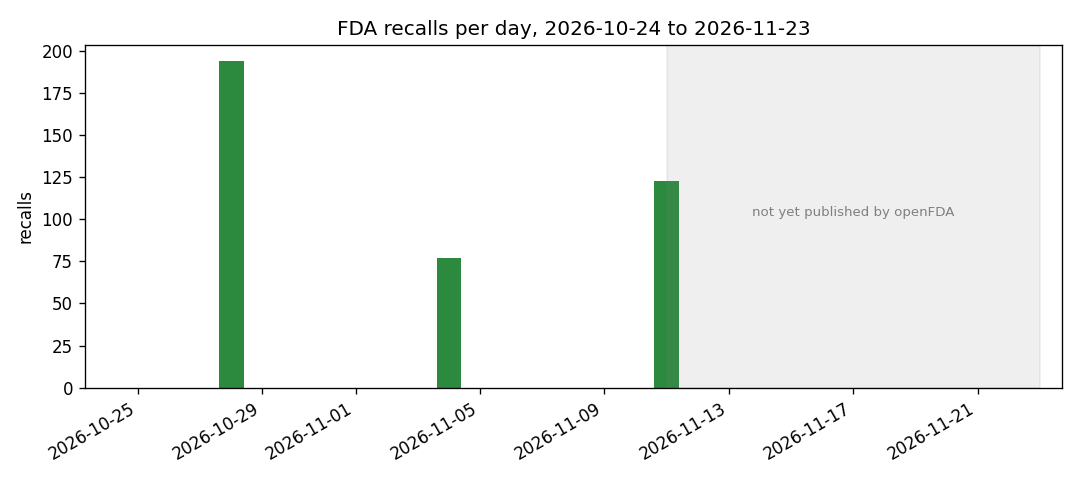
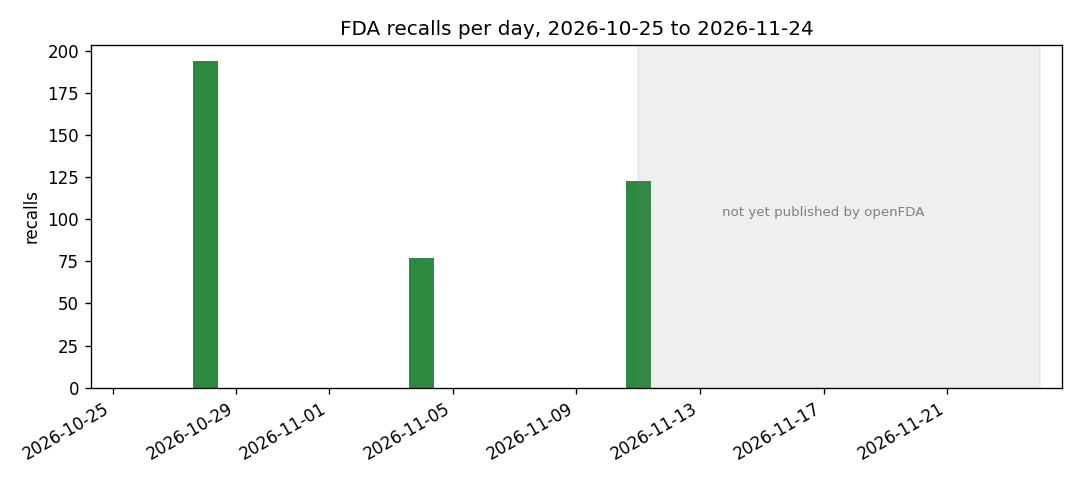
Add reporting lag distribution buckets; refresh data

diff --git a/src/recallradar/report.py b/src/recallradar/report.py
@@ -50,7 +50,8 @@ def render_markdown(summary: dict, spotlight: list[dict],
                     concentration: dict | None = None,
                     oldest_open: list[dict] | None = None,
                     lag_by_product: dict | None = None,
-                    slowest: list[dict] | None = None) -> str:
+                    slowest: list[dict] | None = None,
+                    lag_dist: list[dict] | None = None) -> str:
     generated_at = generated_at or dt.datetime.now(dt.timezone.utc)
     if endpoint_updated:
         parts = ", ".join(f"{ep} {d}" for ep, d in sorted(endpoint_updated.items()))
@@ -96,6 +97,11 @@ def render_markdown(summary: dict, spotlight: list[dict],
             if cls in lag_by_class:
                 row = lag_by_class[cls]
                 lines.append(f"| {cls} | {row['count']} | {row['median']} | {row['p90']} |")
+    if lag_dist and any(b["recalls"] for b in lag_dist):
+        lines += ["", "Lag distribution (recalls with both dates):", "",
+                  "| Lag | Recalls | Share |", "| --- | ---: | ---: |"]
+        for b in lag_dist:
+            lines.append(f"| {b['bucket']} | {b['recalls']} | {b['share']:.1%} |")
     if lag_by_product:
         lines += ["", "Lag by product type (days, slowest first):", "",
                   "| Product type | Recalls | Median lag | p90 |",

diff --git a/tests/test_analyze.py b/tests/test_analyze.py
@@ -542,3 +542,20 @@ def test_slowest_reported_orders_skips_bad_and_renders():
     md = report.render_markdown(analyze.summarize(recs), [], dt.date(2026, 11, 1), dt.date(2026, 11, 18),
                                 slowest=out)
     assert "| R-2 | A | Class II | 31 |" in md
+
+
+def test_lag_distribution_buckets_edges_and_render():
+    from recallradar import analyze, report
+    import datetime as dt
+    def r(lag):
+        init = dt.date(2026, 1, 1)
+        return {"recall_initiation_date": init.strftime("%Y%m%d"),
+                "report_date": (init + dt.timedelta(days=lag)).strftime("%Y%m%d")}
+    recs = [r(0), r(14), r(15), r(30), r(31), r(90), r(91), r(500), {"report_date": "20260101"}]
+    out = {b["bucket"]: b["recalls"] for b in analyze.lag_distribution(recs)}
+    assert out == {"0-14 days": 2, "15-30 days": 2, "31-60 days": 1, "61-90 days": 1, "over 90 days": 2}
+    assert sum(b["share"] for b in analyze.lag_distribution(recs)) > 0.999
+    assert all(b["recalls"] == 0 and b["share"] == 0.0 for b in analyze.lag_distribution([]))
+    md = report.render_markdown(analyze.summarize(recs), [], dt.date(2026, 11, 1), dt.date(2026, 11, 18),
+                                lag_dist=analyze.lag_distribution(recs))
+    assert "| 0-14 days | 2 | 25.0% |" in md

diff --git a/src/recallradar/analyze.py b/src/recallradar/analyze.py
@@ -433,3 +433,19 @@ def slowest_reported(records: list[dict], n: int = 5) -> list[dict]:
                     "lag_days": lag})
     out.sort(key=lambda r: (-r["lag_days"], r["firm"], r["recall_number"]))
     return out[:n]
+
+
+LAG_BUCKETS = [("0-14 days", 0, 14), ("15-30 days", 15, 30), ("31-60 days", 31, 60),
+               ("61-90 days", 61, 90), ("over 90 days", 91, None)]
+
+
+def lag_distribution(records: list[dict]) -> list[dict]:
+    """Recalls per initiation-to-report lag bucket with share of recalls that
+    have a usable lag (same date rules as reporting_lag_days). Buckets are
+    fixed so reports stay comparable; empty buckets are kept at 0."""
+    lags = reporting_lag_days(records)
+    out = []
+    for label, lo, hi in LAG_BUCKETS:
+        n = sum(1 for lag in lags if lag >= lo and (hi is None or lag <= hi))
+        out.append({"bucket": label, "recalls": n, "share": round(n / len(lags), 4) if lags else 0.0})
+    return out

diff --git a/scripts/daily_update.py b/scripts/daily_update.py
@@ -108,7 +108,8 @@ def main() -> None:
                                concentration=analyze.firm_concentration(records),
                                oldest_open=analyze.oldest_open_recalls(records, dt.date.today()),
                                lag_by_product=analyze.lag_by_product_type(records),
-                               slowest=analyze.slowest_reported(records)),
+                               slowest=analyze.slowest_reported(records),
+                               lag_dist=analyze.lag_distribution(records)),
         encoding="utf-8",
     )
     if report.plot_daily_counts(records, REPORTS / "recalls_last_30d.png",

diff --git a/reports/daily_report.md b/reports/daily_report.md
@@ -1,10 +1,10 @@
 # FDA Recall Radar - daily report
 
-Window: 2026-10-24 to 2026-11-23 (by report date). openFDA last_updated by endpoint: device 2026-11-11, drug 2026-11-11, food 2026-11-11. Generated 2026-11-23 20:07 UTC.
+Window: 2026-10-25 to 2026-11-24 (by report date). openFDA last_updated by endpoint: device 2026-11-11, drug 2026-11-11, food 2026-11-11. Generated 2026-11-24 12:05 UTC.
 
 **394 recalls** across 3 active days.
 
-> **Stale upstream data:** openFDA has not published for over 7 days (device 12 days, drug 12 days, food 12 days). Recent days may be missing here until it does.
+> **Stale upstream data:** openFDA has not published for over 7 days (device 13 days, drug 13 days, food 13 days). Recent days may be missing here until it does.
 
 ## By severity
 
@@ -31,6 +31,16 @@ Days from recall initiation to the enforcement report, over the 394 recalls in t
 | Class I | 59 | 41 | 65 |
 | Class II | 298 | 42.0 | 65 |
 | Class III | 35 | 65 | 65 |
+
+Lag distribution (recalls with both dates):
+
+| Lag | Recalls | Share |
+| --- | ---: | ---: |
+| 0-14 days | 2 | 0.5% |
+| 15-30 days | 107 | 27.2% |
+| 31-60 days | 196 | 49.8% |
+| 61-90 days | 76 | 19.3% |
+| over 90 days | 13 | 3.3% |
 
 Lag by product type (days, slowest first):
 
@@ -132,10 +142,10 @@ Days since initiation for recalls still marked Ongoing.
 
 | Class | Open | Median age (days) | Oldest (days) | Open > 90 days |
 | --- | ---: | ---: | ---: | ---: |
-| Class I | 58 | 60 | 271 | 9 |
-| Class II | 298 | 67 | 929 | 40 |
-| Class III | 35 | 91 | 91 | 30 |
-| Not Yet Classified | 2 | 115 | 199 | 1 |
+| Class I | 58 | 61 | 272 | 9 |
+| Class II | 298 | 68 | 930 | 40 |
+| Class III | 35 | 92 | 92 | 30 |
+| Not Yet Classified | 2 | 116 | 200 | 1 |
 
 ## Reason themes by month
 
@@ -173,15 +183,15 @@ Longest-open recalls still marked Ongoing, by days since initiation.
 
 | Recall | Firm | Class | Initiated | Age (days) |
 | --- | --- | --- | --- | ---: |
-| Z-0321-2027 | Illumina, Inc. | Class II | 2024-05-08 | 929 |
-| Z-0324-2027 | Illumina, Inc. | Class II | 2024-05-08 | 929 |
-| Z-0323-2027 | Illumina, Inc. | Class II | 2024-05-08 | 929 |
-| Z-0322-2027 | Illumina, Inc. | Class II | 2024-05-08 | 929 |
-| Z-0320-2027 | Illumina, Inc. | Class II | 2024-05-08 | 929 |
+| Z-0321-2027 | Illumina, Inc. | Class II | 2024-05-08 | 930 |
+| Z-0324-2027 | Illumina, Inc. | Class II | 2024-05-08 | 930 |
+| Z-0323-2027 | Illumina, Inc. | Class II | 2024-05-08 | 930 |
+| Z-0322-2027 | Illumina, Inc. | Class II | 2024-05-08 | 930 |
+| Z-0320-2027 | Illumina, Inc. | Class II | 2024-05-08 | 930 |
 
 ## Source data notes
 
-Scope: the 394 recalls with a report date in the rolling window 2026-10-24 to 2026-11-23, not the whole archive (462 recalls keyed by recall_number, which keeps recalls after they leave the window); 2 of the window recalls have no recall_number and are not in the archive. Of the 394: 0 lack an initiation date, 0 have an unparseable date, 0 are reported before their initiation date, 0 lack a classification. Lag and age sections skip those records.
+Scope: the 394 recalls with a report date in the rolling window 2026-10-25 to 2026-11-24, not the whole archive (462 recalls keyed by recall_number, which keeps recalls after they leave the window); 2 of the window recalls have no recall_number and are not in the archive. Of the 394: 0 lack an initiation date, 0 have an unparseable date, 0 are reported before their initiation date, 0 lack a classification. Lag and age sections skip those records.
 
 _Window total includes 2 recalls with no recall_number; they are reported here but cannot be keyed into the archive._
 
